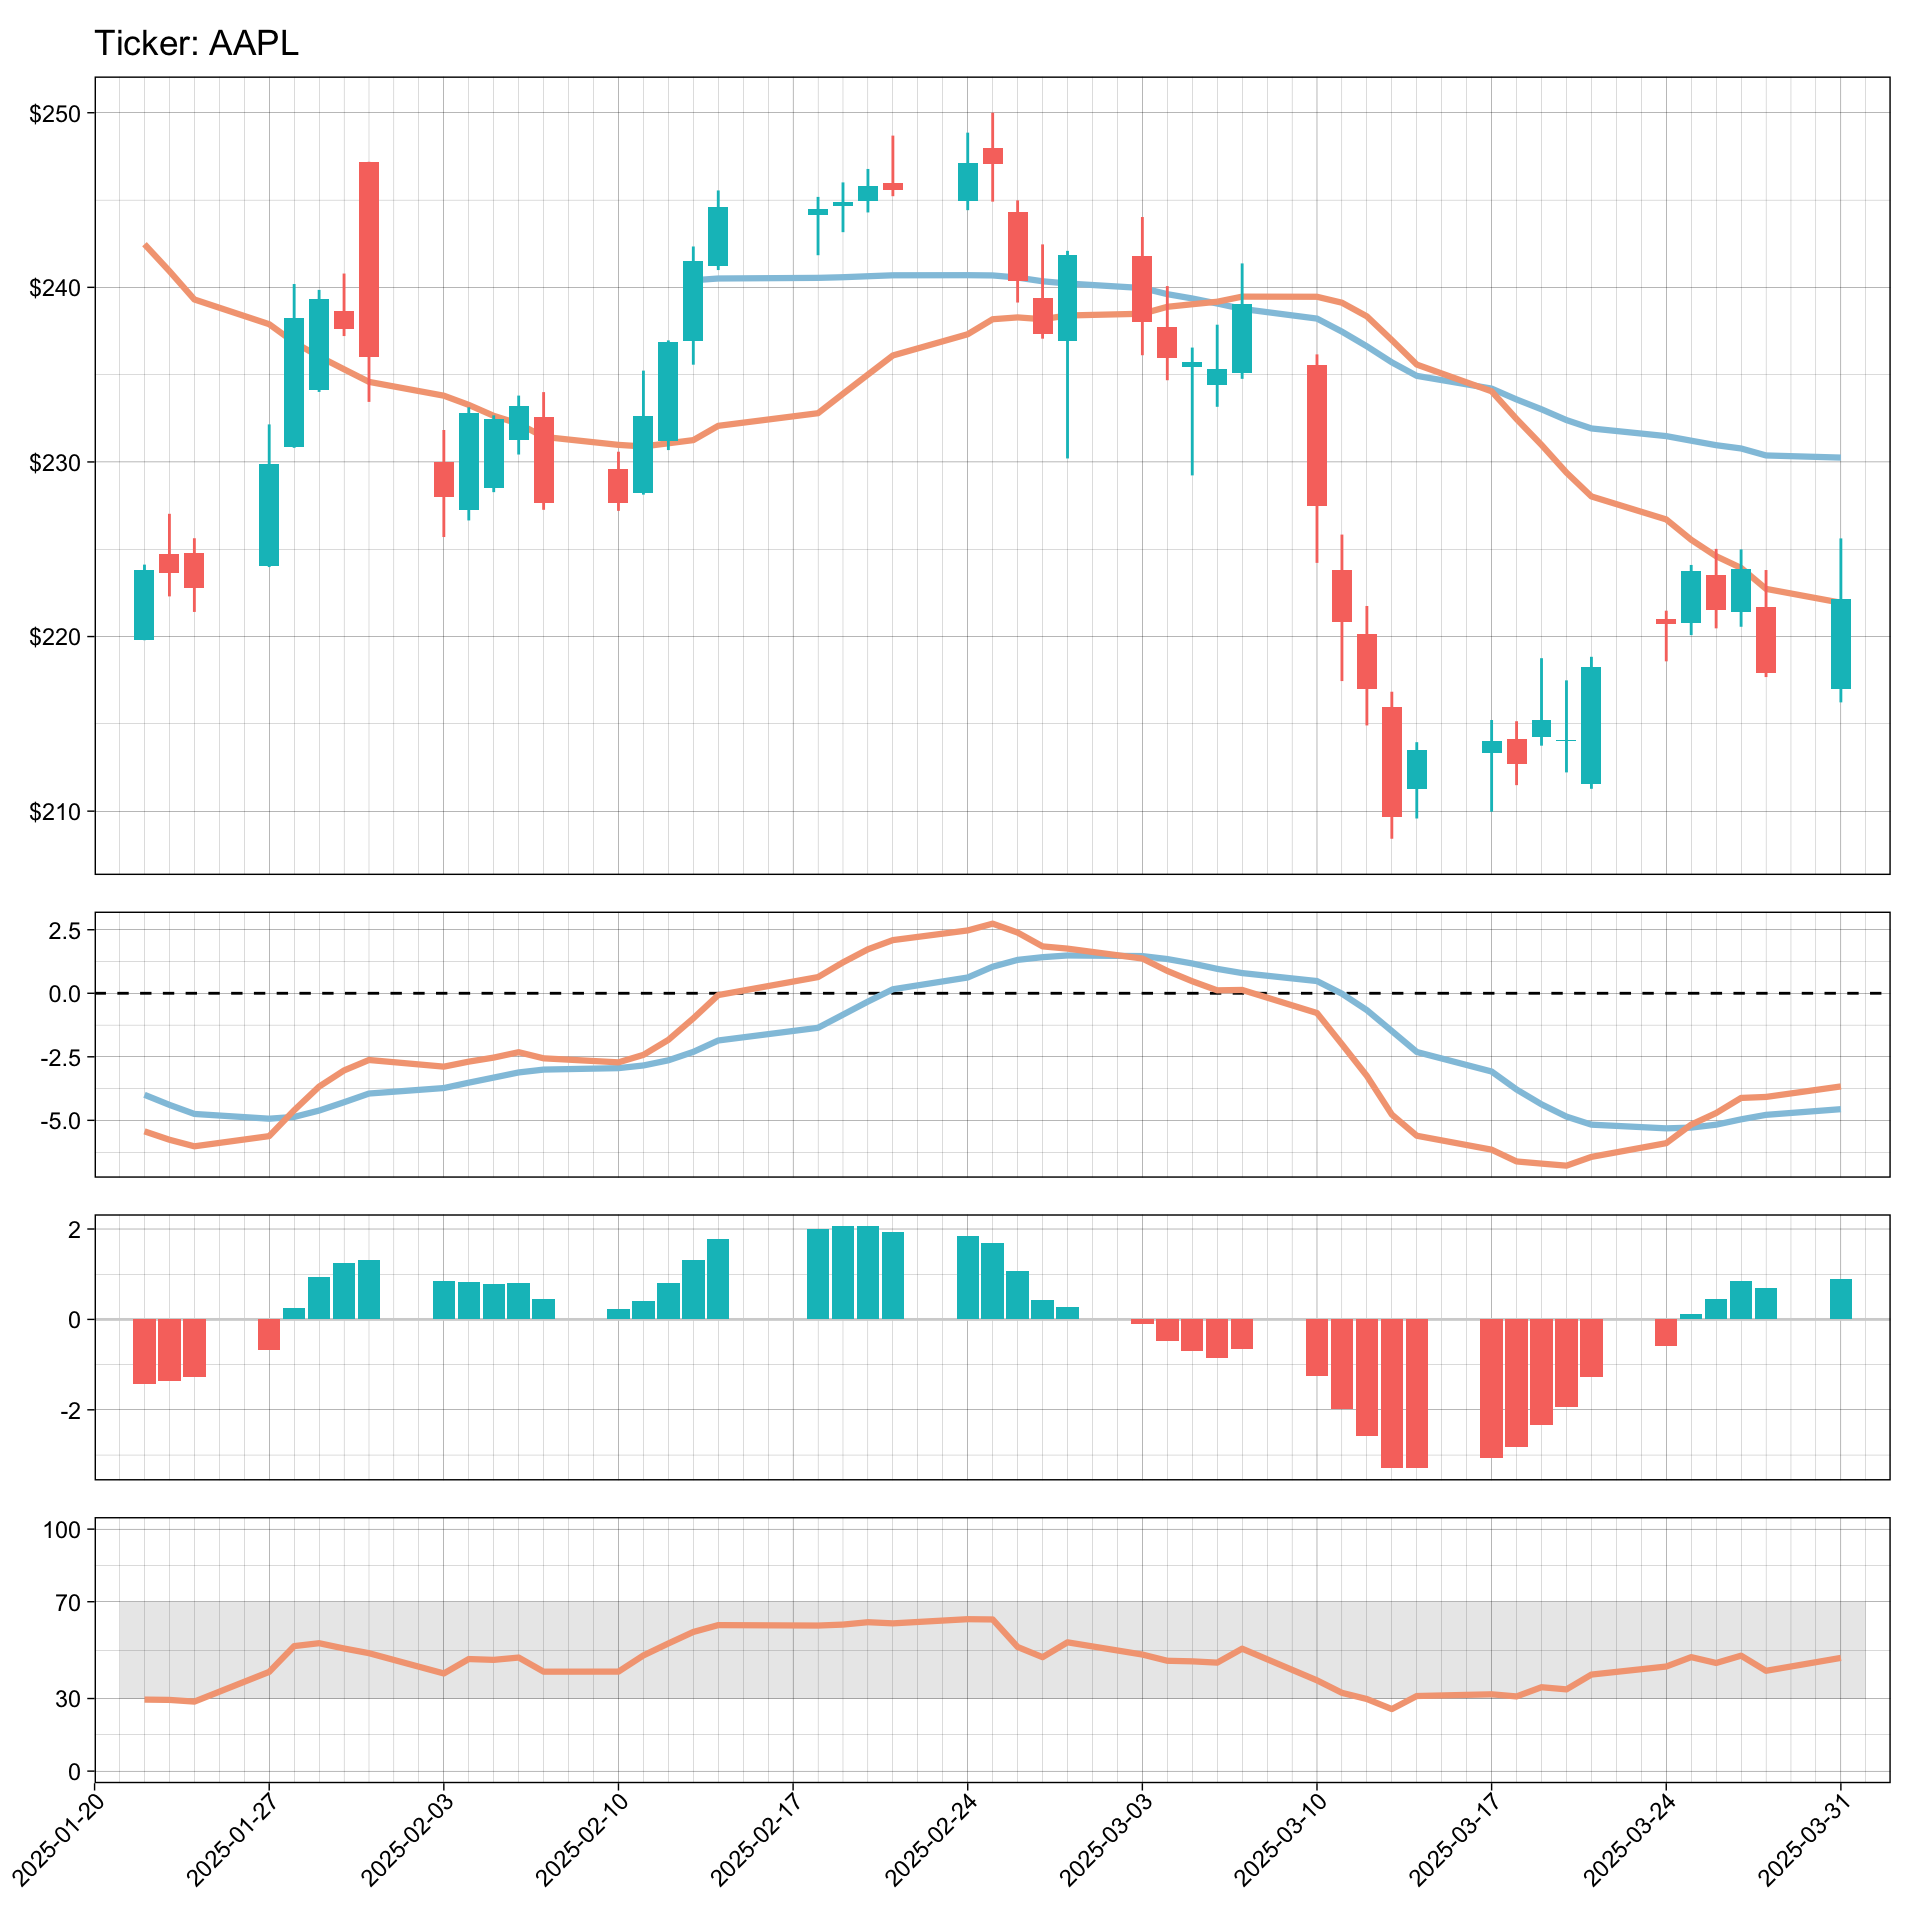
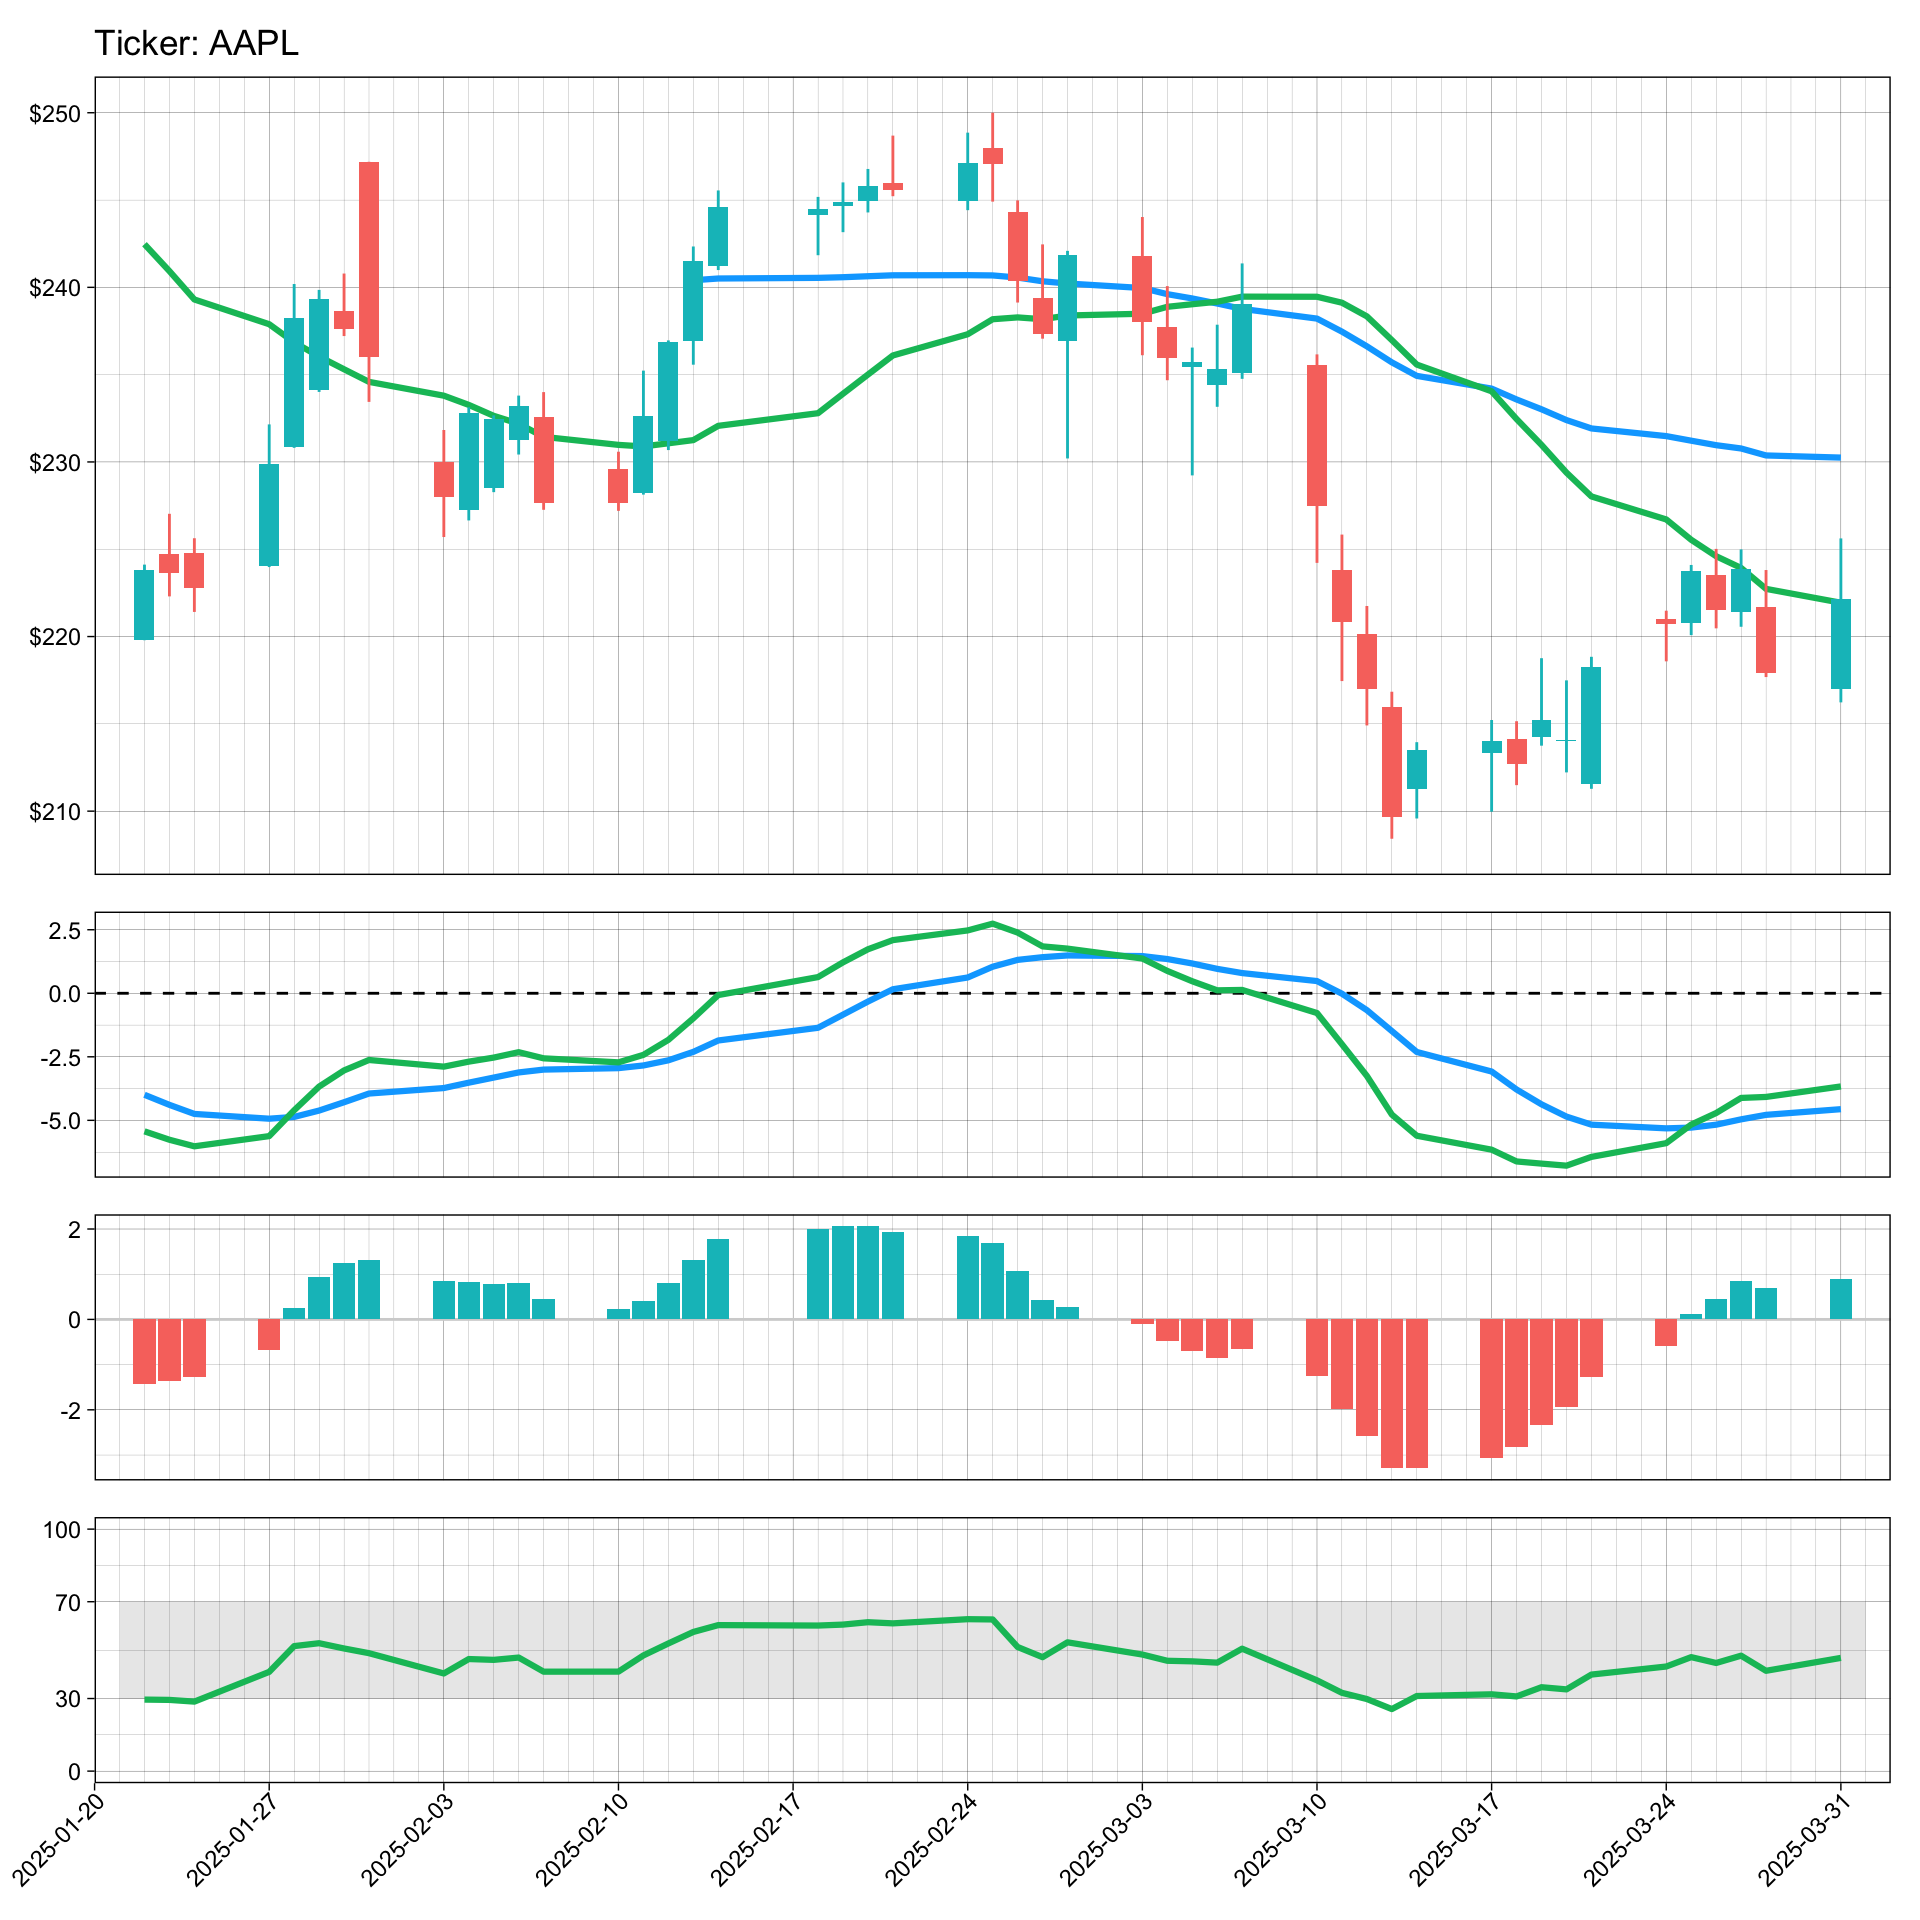
rerender

diff --git a/docs/posts/2025-04-01-Tech-Invest-Pipeline-Part1/index.html b/docs/posts/2025-04-01-Tech-Invest-Pipeline-Part1/index.html
@@ -397,8 +397,8 @@ pre > code.sourceCode > span > a:first-child::before { text-decoration: underlin
 <span id="cb4-25"><a href="#cb4-25" aria-hidden="true" tabindex="-1"></a></span>
 <span id="cb4-26"><a href="#cb4-26" aria-hidden="true" tabindex="-1"></a>g1<span class="ot">&lt;-</span><span class="fu">ggplot</span>(py<span class="sc">$</span>df,<span class="fu">aes</span>(<span class="at">x=</span><span class="fu">as_date</span>(date)))<span class="sc">+</span></span>
 <span id="cb4-27"><a href="#cb4-27" aria-hidden="true" tabindex="-1"></a>    <span class="fu">geom_hline</span>(<span class="at">yintercept=</span><span class="dv">0</span>,<span class="at">linetype=</span><span class="dv">2</span>,<span class="at">linewidth=</span>.<span class="dv">5</span>)<span class="sc">+</span></span>
-<span id="cb4-28"><a href="#cb4-28" aria-hidden="true" tabindex="-1"></a>    <span class="fu">geom_line</span>(<span class="fu">aes</span>(<span class="at">y=</span>signal),<span class="at">color=</span><span class="st">"#92C5DE"</span>,<span class="at">linewidth=</span><span class="fl">1.1</span>)<span class="sc">+</span></span>
-<span id="cb4-29"><a href="#cb4-29" aria-hidden="true" tabindex="-1"></a>    <span class="fu">geom_line</span>(<span class="fu">aes</span>(<span class="at">y=</span>MACD),<span class="at">color=</span><span class="st">"#F4A582"</span>,<span class="at">linewidth=</span><span class="fl">1.1</span>)<span class="sc">+</span></span>
+<span id="cb4-28"><a href="#cb4-28" aria-hidden="true" tabindex="-1"></a>    <span class="fu">geom_line</span>(<span class="fu">aes</span>(<span class="at">y=</span>signal),<span class="at">color=</span><span class="st">"#00A9FF"</span>,<span class="at">linewidth=</span><span class="fl">1.1</span>)<span class="sc">+</span></span>
+<span id="cb4-29"><a href="#cb4-29" aria-hidden="true" tabindex="-1"></a>    <span class="fu">geom_line</span>(<span class="fu">aes</span>(<span class="at">y=</span>MACD),<span class="at">color=</span><span class="st">"#00BE67"</span>,<span class="at">linewidth=</span><span class="fl">1.1</span>)<span class="sc">+</span></span>
 <span id="cb4-30"><a href="#cb4-30" aria-hidden="true" tabindex="-1"></a>    <span class="fu">scale_x_date</span>(</span>
 <span id="cb4-31"><a href="#cb4-31" aria-hidden="true" tabindex="-1"></a>        <span class="at">limits=</span><span class="fu">c</span>(l,u),</span>
 <span id="cb4-32"><a href="#cb4-32" aria-hidden="true" tabindex="-1"></a>        <span class="at">date_breaks=</span><span class="st">"1 week"</span>,</span>
@@ -415,7 +415,7 @@ pre > code.sourceCode > span > a:first-child::before { text-decoration: underlin
 <span id="cb4-43"><a href="#cb4-43" aria-hidden="true" tabindex="-1"></a>        <span class="at">axis.ticks.x=</span><span class="fu">element_line</span>(),</span>
 <span id="cb4-44"><a href="#cb4-44" aria-hidden="true" tabindex="-1"></a>    )<span class="sc">+</span></span>
 <span id="cb4-45"><a href="#cb4-45" aria-hidden="true" tabindex="-1"></a>    <span class="fu">annotate</span>(<span class="at">geom=</span><span class="st">"rect"</span>,<span class="at">fill=</span><span class="st">"#000000"</span>,<span class="at">xmin=</span>l,<span class="at">xmax=</span>u,<span class="at">ymin=</span><span class="dv">30</span>,<span class="at">ymax=</span><span class="dv">70</span>,<span class="at">alpha=</span><span class="fl">0.1</span>)<span class="sc">+</span></span>
-<span id="cb4-46"><a href="#cb4-46" aria-hidden="true" tabindex="-1"></a>    <span class="fu">geom_line</span>(<span class="fu">aes</span>(<span class="at">y=</span>RSI),<span class="at">linewidth=</span><span class="fl">1.1</span>,<span class="at">color=</span><span class="st">"#F4A582"</span>)<span class="sc">+</span></span>
+<span id="cb4-46"><a href="#cb4-46" aria-hidden="true" tabindex="-1"></a>    <span class="fu">geom_line</span>(<span class="fu">aes</span>(<span class="at">y=</span>RSI),<span class="at">linewidth=</span><span class="fl">1.1</span>,<span class="at">color=</span><span class="st">"#00BE67"</span>)<span class="sc">+</span></span>
 <span id="cb4-47"><a href="#cb4-47" aria-hidden="true" tabindex="-1"></a>    <span class="fu">scale_x_date</span>(</span>
 <span id="cb4-48"><a href="#cb4-48" aria-hidden="true" tabindex="-1"></a>        <span class="at">limits=</span><span class="fu">c</span>(l,u),</span>
 <span id="cb4-49"><a href="#cb4-49" aria-hidden="true" tabindex="-1"></a>        <span class="at">date_breaks=</span><span class="st">"1 week"</span>,</span>
@@ -431,8 +431,8 @@ pre > code.sourceCode > span > a:first-child::before { text-decoration: underlin
 <span id="cb4-59"><a href="#cb4-59" aria-hidden="true" tabindex="-1"></a>    )</span>
 <span id="cb4-60"><a href="#cb4-60" aria-hidden="true" tabindex="-1"></a></span>
 <span id="cb4-61"><a href="#cb4-61" aria-hidden="true" tabindex="-1"></a>p<span class="ot">&lt;-</span><span class="fu">ggplot</span>(py<span class="sc">$</span>df,<span class="fu">aes</span>(<span class="at">x=</span><span class="fu">as_date</span>(date)))<span class="sc">+</span></span>
-<span id="cb4-62"><a href="#cb4-62" aria-hidden="true" tabindex="-1"></a>    <span class="fu">geom_line</span>(<span class="fu">aes</span>(<span class="at">y=</span>sma_l),<span class="at">color=</span><span class="st">"#92C5DE"</span>,<span class="at">linewidth=</span><span class="fl">1.1</span>)<span class="sc">+</span></span>
-<span id="cb4-63"><a href="#cb4-63" aria-hidden="true" tabindex="-1"></a>    <span class="fu">geom_line</span>(<span class="fu">aes</span>(<span class="at">y=</span>sma_s),<span class="at">color=</span><span class="st">"#F4A582"</span>,<span class="at">linewidth=</span><span class="fl">1.1</span>)<span class="sc">+</span></span>
+<span id="cb4-62"><a href="#cb4-62" aria-hidden="true" tabindex="-1"></a>    <span class="fu">geom_line</span>(<span class="fu">aes</span>(<span class="at">y=</span>sma_l),<span class="at">color=</span><span class="st">"#00A9FF"</span>,<span class="at">linewidth=</span><span class="fl">1.1</span>)<span class="sc">+</span></span>
+<span id="cb4-63"><a href="#cb4-63" aria-hidden="true" tabindex="-1"></a>    <span class="fu">geom_line</span>(<span class="fu">aes</span>(<span class="at">y=</span>sma_s),<span class="at">color=</span><span class="st">"#00BE67"</span>,<span class="at">linewidth=</span><span class="fl">1.1</span>)<span class="sc">+</span></span>
 <span id="cb4-64"><a href="#cb4-64" aria-hidden="true" tabindex="-1"></a>    <span class="fu">geom_linerange</span>(<span class="fu">aes</span>(<span class="at">ymax=</span>high,<span class="at">ymin=</span>low,<span class="at">color=</span><span class="fu">factor</span>(candle_color)))<span class="sc">+</span></span>
 <span id="cb4-65"><a href="#cb4-65" aria-hidden="true" tabindex="-1"></a>    <span class="fu">geom_tile</span>(</span>
 <span id="cb4-66"><a href="#cb4-66" aria-hidden="true" tabindex="-1"></a>        <span class="fu">aes</span>(</span>

diff --git a/docs/posts.html b/docs/posts.html
@@ -198,7 +198,7 @@ window.Quarto = {
 
 <div class="quarto-listing quarto-listing-container-default" id="listing-listing">
 <div class="list quarto-listing-default">
-<div class="quarto-post image-right" data-index="0" data-categories="UiUyQ1B5dGhvbiUyQ0ludmVzdGluZw==" data-listing-date-sort="1743487200000" data-listing-file-modified-sort="1743556171874" data-listing-date-modified-sort="NaN" data-listing-reading-time-sort="8" data-listing-word-count-sort="1517">
+<div class="quarto-post image-right" data-index="0" data-categories="UiUyQ1B5dGhvbiUyQ0ludmVzdGluZw==" data-listing-date-sort="1743487200000" data-listing-file-modified-sort="1743556539574" data-listing-date-modified-sort="NaN" data-listing-reading-time-sort="8" data-listing-word-count-sort="1517">
 <div class="thumbnail">
 <p><a href="./posts/2025-04-01-Tech-Invest-Pipeline-Part1/index.html" class="no-external"></a></p><a href="./posts/2025-04-01-Tech-Invest-Pipeline-Part1/index.html" class="no-external">
 <p><img loading="lazy" src="./posts/2025-04-01-Tech-Invest-Pipeline-Part1/PReview.webp" class="thumbnail-image"></p>
